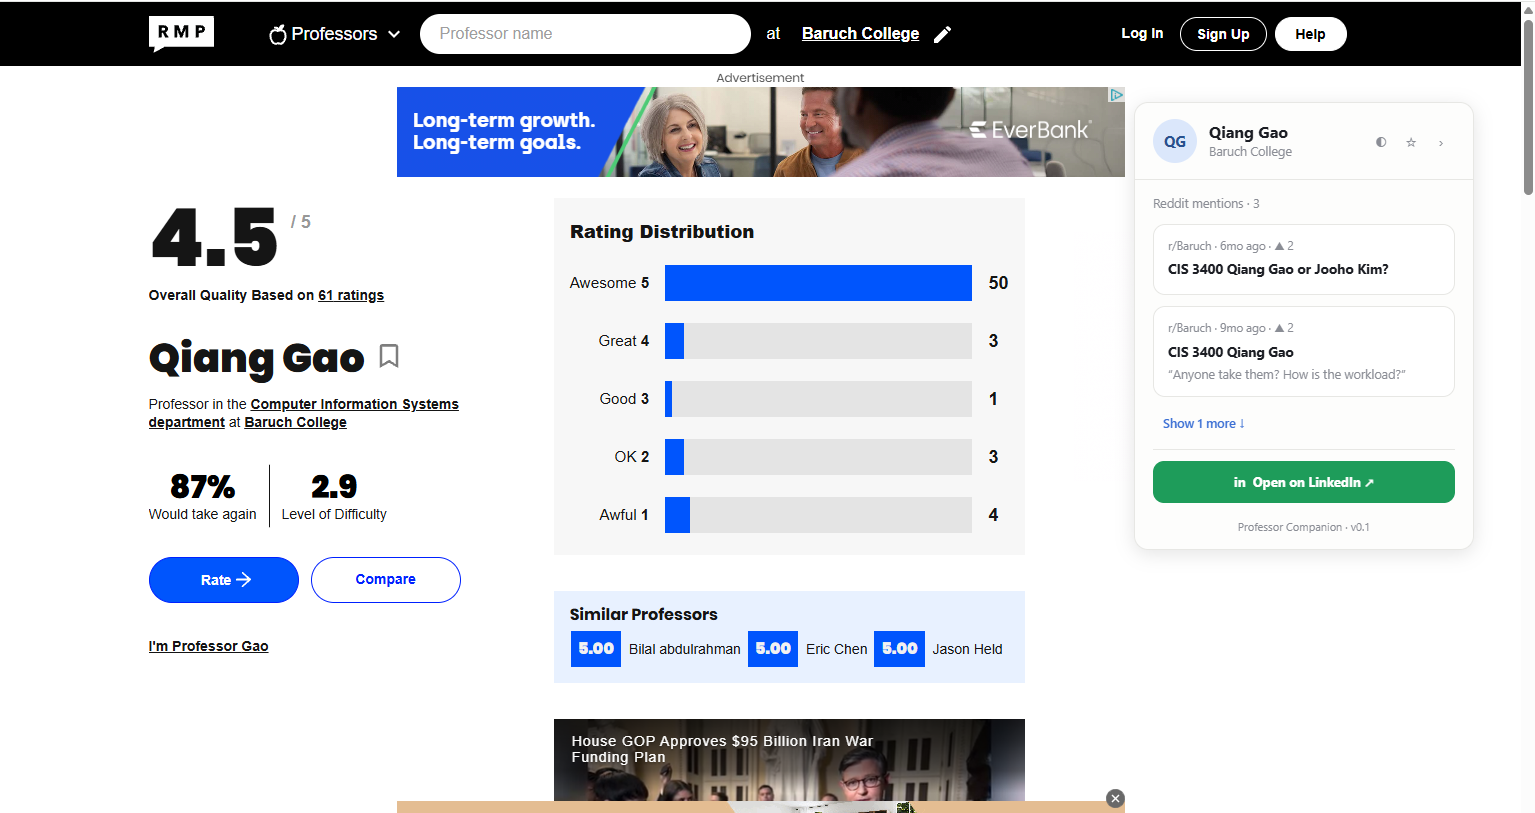
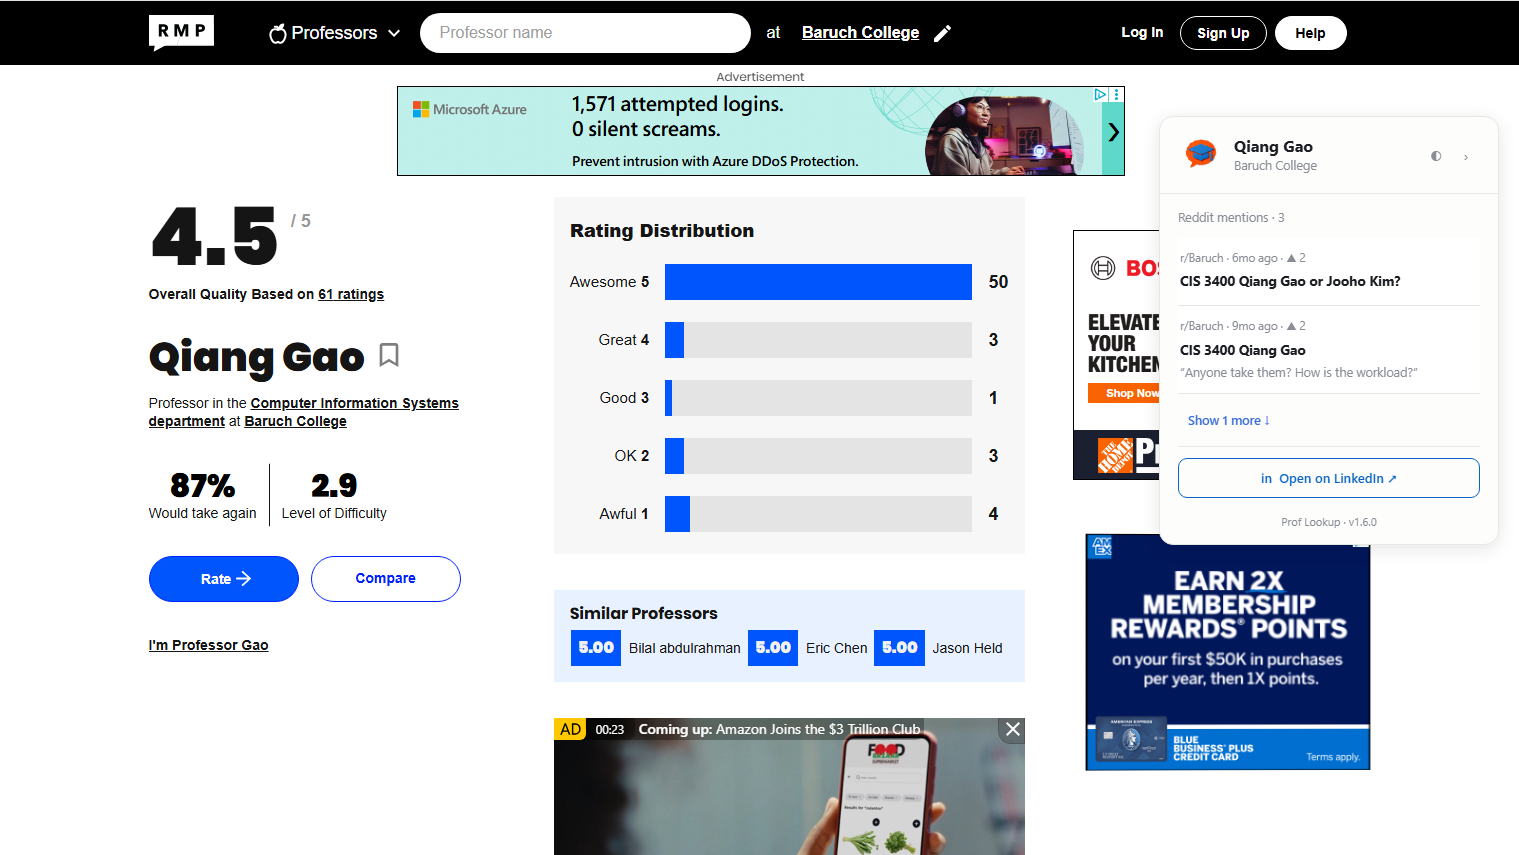
Reshoot screenshots, remove Demo placeholder, sweep old name from shipped code, update docs

diff --git a/content.js b/content.js
@@ -1,4 +1,4 @@
-// Professor Companion — content script.
+// Prof Lookup — content script.
 //
 // Sections:
 //   1. Settings      — chrome.storage.local persistence (theme, collapsed)
@@ -59,7 +59,7 @@ let mountPromise = null; // guards against two concurrent mounts
 // warning, never the features downstream of it.
 function hook(root, id) {
   const node = root?.querySelector(`#${id}`) ?? null;
-  if (!node) console.warn(`Professor Companion: sidebar template has no #${id}`);
+  if (!node) console.warn(`Prof Lookup: sidebar template has no #${id}`);
   return node;
 }
 
@@ -195,7 +195,7 @@ function wireSidebarControls(shadow) {
   // slow first attempt landing later can't overwrite the retry's result.
   hook(shadow, "pc-retry")?.addEventListener("click", () => {
     if (!lastLogged || lastLogged.path !== location.pathname) {
-      console.warn("Professor Companion: retry ignored — no confirmed professor on this page");
+      console.warn("Prof Lookup: retry ignored — no confirmed professor on this page");
       return;
     }
     const { name, school, professorId, schoolId } = lastLogged;
@@ -328,13 +328,13 @@ function wireDragging(shadow) {
   // Dragging is a nicety; if the restyle ever renames these, the sidebar
   // should still mount and load results without it.
   if (!header || !tab) {
-    console.warn("Professor Companion: drag handles missing — dragging disabled");
+    console.warn("Prof Lookup: drag handles missing — dragging disabled");
     return;
   }
 
   header.addEventListener("pointerdown", (event) => {
     if (bottomSheet.matches || event.button !== 0) return;
-    // The header hosts the theme/star/collapse buttons and the theme menu;
+    // The header hosts the theme/collapse buttons and the theme menu;
     // drags must not start from any of them.
     if (event.target.closest(".pc-iconbtn") || event.target.closest("#pc-theme-menu")) return;
 
@@ -439,7 +439,7 @@ function syncSidebarToPath(onProfessorPage) {
       sidebarHost.hidden = false;
     } else {
       mountSidebar().catch((err) => {
-        console.warn(`Professor Companion: sidebar failed to mount — ${err.message}`);
+        console.warn(`Prof Lookup: sidebar failed to mount — ${err.message}`);
       });
     }
   } else if (sidebarHost) {
@@ -536,7 +536,7 @@ async function startRedditSearch(name, school, professorId, schoolId) {
     }
   } catch (err) {
     if (!stillCurrent()) return;
-    console.warn(`Professor Companion: Reddit search failed — ${err.message}`);
+    console.warn(`Prof Lookup: Reddit search failed — ${err.message}`);
     // A fetch failure is the retryable case, so it gets the error card.
     // (Detection give-up still uses the empty card — see onDetectionTimeout.)
     showError();
@@ -800,7 +800,7 @@ function attemptDetection() {
   try {
     updateSidebarIdentity(name, school);
   } catch (err) {
-    console.warn(`Professor Companion: header update failed — ${err.message}`);
+    console.warn(`Prof Lookup: header update failed — ${err.message}`);
   }
   // schoolId may be null (title-fallback path); reddit.js then falls back to
   // its name-based lookup rather than skipping the campus search.
@@ -816,7 +816,7 @@ function onDetectionTimeout() {
   // empty card keeps the manual search link as an escape hatch — and even
   // that only borrows the DOM's name if it clears the same staleness gate,
   // so the link can't search for the previous page's professor.
-  console.warn("Professor Companion: could not confirm professor info — giving up.");
+  console.warn("Prof Lookup: could not confirm professor info — giving up.");
   let name = getNameFromDom();
   if (!navSnapshot.initial && name === navSnapshot.name) name = null;
   showEmpty(name, getSchoolFromDom(), { failed: true });

diff --git a/reddit.js b/reddit.js
@@ -1,4 +1,4 @@
-// Professor Companion — Reddit thread search (Phase 3, no UI yet).
+// Prof Lookup — Reddit thread search (Phase 3, no UI yet).
 //
 // fetchRedditThreads(professorName, school, schoolId) is the public entry
 // point (schoolId is RMP's numeric school ID, optional). It
@@ -155,7 +155,7 @@ async function fetchRedditThreads(professorName, school, schoolId) {
     throw new Error(`All Reddit searches failed — ${failures.join("; ")}`);
   }
   if (failures.length > 0) {
-    console.warn(`Professor Companion: partial Reddit results — ${failures.join("; ")}`);
+    console.warn(`Prof Lookup: partial Reddit results — ${failures.join("; ")}`);
   } else {
     // Cache only complete results: pinning a partial (one search failed)
     // for 10 minutes would hide a recovery the very next navigation might
@@ -307,7 +307,7 @@ function makeSnippet(selftext) {
 // limiting (HTTP 429).
 //
 // For one-off manual tests: in DevTools, switch the console's context
-// dropdown from "top" to "Professor Companion", then run e.g.
+// dropdown from "top" to "Prof Lookup", then run e.g.
 //   await fetchRedditThreads("Jane Doe", "Baruch College")
 
 const REDDIT_TEST_MODE = false;
@@ -321,7 +321,7 @@ const REDDIT_TEST_CASES = [
 
 async function runRedditSelfTest() {
   for (const { professorName, school } of REDDIT_TEST_CASES) {
-    console.log(`Professor Companion — Reddit search: ${professorName} (${school})`);
+    console.log(`Prof Lookup — Reddit search: ${professorName} (${school})`);
     try {
       const threads = await fetchRedditThreads(professorName, school);
       console.log(`${threads.length} thread(s) found`);
@@ -331,7 +331,7 @@ async function runRedditSelfTest() {
         console.log(threads); // full objects (snippet + url), expandable
       }
     } catch (err) {
-      console.error(`Professor Companion: Reddit search failed — ${err.message}`);
+      console.error(`Prof Lookup: Reddit search failed — ${err.message}`);
     }
   }
 }

diff --git a/background.js b/background.js
@@ -1,4 +1,4 @@
-// Professor Companion — background service worker.
+// Prof Lookup — background service worker.
 //
 // Its only job so far: fetch Reddit JSON on behalf of content scripts.
 // Content scripts inherit ratemyprofessors.com's origin, so the same-origin

diff --git a/docs/development-log.md b/docs/development-log.md
@@ -145,6 +145,11 @@ Next Steps: Lock the design with Antony, then reshoot README screenshots. His si
 - Shared: lock the design, then Jinge reshoots the screenshots.
 - Still carrying the old name: popup.html title and heading, the README H1 and hero caption, and the sidebar footer (which also still reads v0.1). The manifest description is unchanged as well.
 
+## 8/3/2026 | Jinge
+Completed: Finished the Phase 5 polish pass. Removed the dead CSS left from the star button, avatar, and brandmark, keeping --pc-avatar-bg/--pc-avatar-ink since the icon buttons and theme menu still use them. Regenerated the 16/48/128 icons from the real logo — the committed ones were still the placeholder cap design and had never matched the brand. Made the retry button Reddit orange to match the Search Reddit link. Reviewed and agreed with Antony's hardening commit: the hook() guard, and decoupling the header paint from the Reddit search so a cosmetic failure can't stop the product. Settled the name on Prof Lookup, swept the remaining old-name strings out of content.js, reddit.js, and background.js (13 console prefixes and file headers — user-visible in console output, so not history the way the docs and mockups are), fixed the README hero image markdown and the stale star-button roadmap line, removed the placeholder Demo section, and reshot all seven README screenshots against the locked design.
+Challenges: Pasted the retry-orange CSS a second time without realizing it was already in the file — caught in review before committing, but it would have re-added exactly the kind of duplicate rule I had just cleaned out. Reading the diff beats trusting memory about what is already applied.
+Next Steps: Chrome Web Store submission — developer account, listing assets, and store copy.
+
 ---
 
 # Team Responsibilities

diff --git a/docs/phase5-notes.md b/docs/phase5-notes.md
@@ -136,3 +136,26 @@ Two changes, both about blast radius rather than blame:
 The general rule worth carrying into v2: when a DOM write and a network call
 share a call path, the DOM write is the fragile one, and it should never be
 the thing that decides whether the network call happens.
+
+---
+
+### Icons, color, and the final name sweep
+
+The committed icons were still the placeholder cap design from before the logo
+existed, and nothing had caught it because manifest.json had no icons key at all
+until 3721489 — the PNGs had been sitting in assets/ unregistered since 7/28.
+Regenerating them from the real logo meant cropping to the artwork and filling
+the frame, since the source had padding baked in that made the icon read small
+in the toolbar. At 16px the bubble and cap still collapse into an orange blob;
+a simplified cap-only variant is the obvious follow-up if it bothers us in use.
+
+The retry button now uses the same Reddit orange as the Search Reddit link
+(#D93A00 light, #FF4500 dark). Both are Reddit-directed actions, so they should
+read as the same kind of thing — the LinkedIn button stays LinkedIn blue for
+exactly the same reason.
+
+On the rename: the sweep covered shipped code as well as the UI, including
+thirteen console.warn/error prefixes in content.js, reddit.js, and background.js.
+Console output is user-visible, so it is part of the product surface, not part of
+the historical record. The dated log entries and the Phase 2 wireframes keep the
+old names deliberately — rewriting those would make the rename untraceable.

diff --git a/README.md b/README.md
@@ -46,7 +46,7 @@ After editing code, click the extension's **reload** (↻) button on `chrome://e
 
 ## Screenshots
 
-[Prof Lookup on a Rate My Professors page](assets/screenshot-hero.png)
+![Prof Lookup on a Rate My Professors page](assets/screenshot-hero.png)
 
 | Light | Dark | Collapsed |
 |---|---|---|
@@ -61,12 +61,6 @@ get a real screen instead of a blank card.
 |---|---|---|
 | ![Loading](assets/state-loading.png) | ![Empty state](assets/state-empty.png) | ![Error state](assets/state-error.png) |
 
-## Demo
-
-<!-- TODO: add demo GIF (search page → professor → sidebar loads → show more → LinkedIn) -->
-
-*Coming soon.*
-
 ## Built By
 
 - **Antony Wu** — product & extension logic: `content.js`, `reddit.js`, `background.js`, `manifest.json`
@@ -76,6 +70,6 @@ get a real screen instead of a blank card.
 
 - **AI summary card** — a short summary of the fetched threads (IBM watsonx behind a small proxy, the project's first backend). Hard constraint, stated verbatim: **summarizes only fetched posts, never model knowledge about the professor.**
 - **LinkedIn one-click** — jump straight to the top profile result (Google CSE API) instead of a search page.
-- **Saved professors** — the star button gets a home: a saved-professors view.
+- **Saved professors** — save professors you're considering and see them in one place.
 - **Progressive disclosure & drag docking** — richer card interactions and snap-to-edge sidebar placement.
 - **Standalone web app** — evaluate expanding beyond the extension once the MVP is published.
